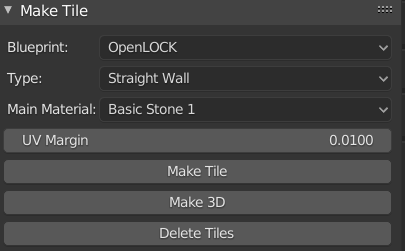
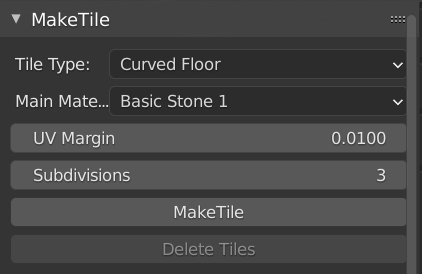
Updated Docs

diff --git a/docs/index.md b/docs/index.md
@@ -2,17 +2,20 @@
 
 MakeTile is a custom dungeon tile creator for [Blender](https://www.blender.org/) - the free, open source 3D modelling program. Using MakeTile you can simply and easily create 3D printable tiles of the exact dimensions you need, add procedurally generated, customizable materials to make them look like stone, wood, brick etc. hit the Make3D button and export them for printing.
 
-You can download the [prototype](https://github.com/richeyrose/make-tile/releases) version of MakeTile today from GitHub. (Be warned, here be bugs!).
-
-If you back MakeTile on [Kickstarter](https://www.kickstarter.com/projects/modmodterrain/maketile-custom-dungeon-tile-creator) you will get access to additional tile types and materials.
+After running a succesful [Kickstarter](https://www.kickstarter.com/projects/modmodterrain/maketile-custom-dungeon-tile-creator) you can now purchase the early access version of MakeTile on [Gumroad](https://gum.co/LaLVb)
 
 Check out my [YouTube](https://www.youtube.com/channel/UC7TUNzEtli-sQRj5anS7DFA) channel for more hints and tips.
 
 ## Installing MakeTile
 1. MakeTile is an add-on for Blender. First [download](https://www.blender.org/download/) the latest build of Blender and install it. If you've not used Blender before I *strongly* advise that you first take a look at the first five Blender fundamentals [videos](https://www.youtube.com/playlist?list=PLa1F2ddGya_-UvuAqHAksYnB0qL9yWDO6) on the official Blender YouTube channel. These will teach you the basics of viewport navigation, the Blender interface and how to add and delete objects. It should take you no more than 30 minutes.
-2. Download the latest build of MakeTile. If you are downloading the prototype or community version you can download the latest version from [here](https://github.com/richeyrose/make-tile/releases). If you have supported MakeTile on Kickstarter you will be emailed a link to download your supported version when the campaign is over. If you;re downloading the prototype click on the **Assets** drop down and download the **MakeTile.zip** file. This contains several materials and meshes that are needed for MakeTile to work which aren't included in the source. **Do not unzip this file!!!** Blender uses the .zip file directly to install add-ons and if you unzip it the installation will silently fail.
+2. Download the latest build of MakeTile from [Gumroad](https://gumroad.com/). If you have backed MakeTile on Kickstarter you will have received a discount code letting you download it for free. Login to your account, go to your library, hover over the MakeTile thumbnail, click on "View content" and download the ZIP file. **Do not unzip this file!!!** Blender uses the .zip file directly to install add-ons and if you unzip it the installation will silently fail.
 3. Launch Blender and click anywhere in 3D space to get rid of the splash screen.
 4. In the top menu go to **Edit** > **Preferences** > **Add-ons** > **Install...** Select the .zip file you have just downloaded and click on **Install Add-on.** After a few seconds MakeTile should appear. If it doesn't use the search box in the top right. Click on the box to the left of MakeTile to activate it. Close the preferences window.
+
+## Updating MakeTile
+1. If you update MakeTile you'll need to ensure that the old version is uninstalled properly first. In the top menu go to **Edit** > **Preferences** > **Add-ons** > **MakeTile**. Click on the down arrow to the left of MakeTile and click on **Remove**
+2. Restart Blender
+3. Install the new version of the MakeTile add-on as above
 
 ## Quickstart guide
 MakeTile lives in its own tab in the right hand menu. Press **N** to show or hide this menu and click on the MakeTile tab to access its options.
@@ -23,7 +26,7 @@ To create your first tile select the default cube by left clicking and press **d
 
 Currently your tile will be blank, so in the **Display Settings** panel click on **Create lighting setup.** Blender should think for a second or two and now your tile should be in glorious 3D!
 
-You will notice that as you rotate around the scene the viewport doesn't update instantaneously. This is because we are currently in Cycles mode, which is Blender's none real time renderer, which we need to use to preview our tiles in 3D. When we're in Cycles mode the 3D displacement is being calculated in the shader and it is not yet "real" geometry.
+You will notice that as you rotate around the scene the viewport doesn't update instantaneously. This is because we are currently in Cycles mode, which is Blender's none real time renderer, which we need to use to preview our tiles in 3D. When we're in Cycles mode the 3D displacement is being calculated in the shader and it is not yet "real" geometry. Also while the Cycles preview gives us a good idea of what the finished tile will look like it is not 100% accurate, so if something looks wrong when in Cycles mode, always check what happens when you Make3D.
 
 ![Cycles Tile](images/CyclesTile.png)
 
@@ -51,19 +54,31 @@ If you want to delete a tile you should use the **Delete Tiles** button in the t
 
 ![Outliner](images/Outliner.png)
 
-## Tile Blueprints
-When creating a tile you can choose the tile blueprint and the tile type from the MakeTile panel drop down. There are currently three tile blueprints supported: OpenLOCK tiles, plain tiles and custom tiles.
+## Creating Tiles
+When creating a tile you can choose the tile type (Straight wall, Rectangular floor, Curved wall etc.) and main material from the MakeTile panel. You can also choose what Blueprint to use for the Base and Core of your tile in the Tile Options Panel.
 
 ![Outliner](images/MainPanel.png)
 
-OpenLOCK tiles are fully compatible with the OpenLOCK system from Printable Scenery and have sockets on the bases, and for walls, on ther sides also. Plain tiles have no sockets on either the bases or the sides. Custom tiles can either have plain bases, OpenLOCK bases or no bases and can also have either plain, OpenLOCK or no textured parts. This is useful if you want to create a tile where the material goes all the way to the ground, but you still want to use the OpenLOCK side clips, or you want to create an OpenLOCK compatible base for a custom tile or object.
+The **Subdivisions** option controls the number of times the tile is subdivided before being made 3D and controls how detailed your tile will be on export. The higher this number the more subdivisions and the more detail you will pick up, however setting this too high, especially when working on your tiles, can severely slow things down.
 
-If you create a tile without a base MakeTile will create an empty which it will parent the rest of the tile to. This will appear as a black cross and it is this you should select in order to move your tile.
+The **UV Margin** control is used to correct for occasional glitches that occur at the edges of tiles. If you've got strange gaps on the edges of your tile material try tweaking this number.
+
+## Tile Blueprints
+There are currently three tile blueprints supported: OpenLOCK, Plain, and "None".
+
+Bases and Cores (the none base part of a tile) created with the OpenLOCK blueprint are fully compatible with the OpenLOCK system from Printable Scenery and have sockets for joining your tiles together. Bases and Cores created with the plain blueprint have no sockets.
+
+If you create select the "None" blueprint for your tile MakeTile will create an "empty" which it will parent the rest of the tile to. This will appear as a black cross and it is this you should select in order to move your tile.
 
 ## Tile Types
 The tile type (Straight wall, Rectangular floor, Curved wall etc.) can be chosen in the **Type** drop down. Each tile type is customisable and a set of different options will appear in the **Tile Options** panel allowing you to set the size of your tile on creation, along with other parameters such as base angle and leg length for corner tiles or triangular floor tiles. Currently once you have created a tile you cannot change its dimensions.
 
 ![Tile Options Panel](images/TileOptions.png)
+
+If you are using the OpenLOCK bluprints then the defaults wil create tiles compatible with the OpenLOCK system. You can change all of these, but be warned your tiles may not be 100% compatible if you alter the height of floor tiles or the width of wall tiles.
+
+## Booleans
+Features such as top pegs and side and base sockets can be toggled on and off after a tile has been created in the **Booleans** sub-panel by selecting the core or base and toggling the appropriate boolean. You may notice sockets look slightly distorted in preview mode. This shouldn't affect the exported tiles and will be fixed in a later result.
 
 ## Swapping Materials
 You can choose what material to add to your tile on creation in the **Main Material** drop down in the main panel. If you want to change this after creation then  make sure the main part of your tile is selected, go to the **Materials** panel, click on the name of the material that is currently on your tile and select a new material from the drop down menu.

diff --git a/README.md b/README.md
@@ -15,6 +15,7 @@ Features tagged **Community** will be available for download from this public re
 Features tagged **Core** will be available to Kickstarter backers who have supported the core tier.
 
 Features tagged **Plus** will be available to Kickstarter backers who have supported the plus tier.
+
 ## Phase 1
 - [x] Basic user documentation - Community - Complete - Released
 - [x] Prototype code refactor, cleanup and documentation - Community - Complete
